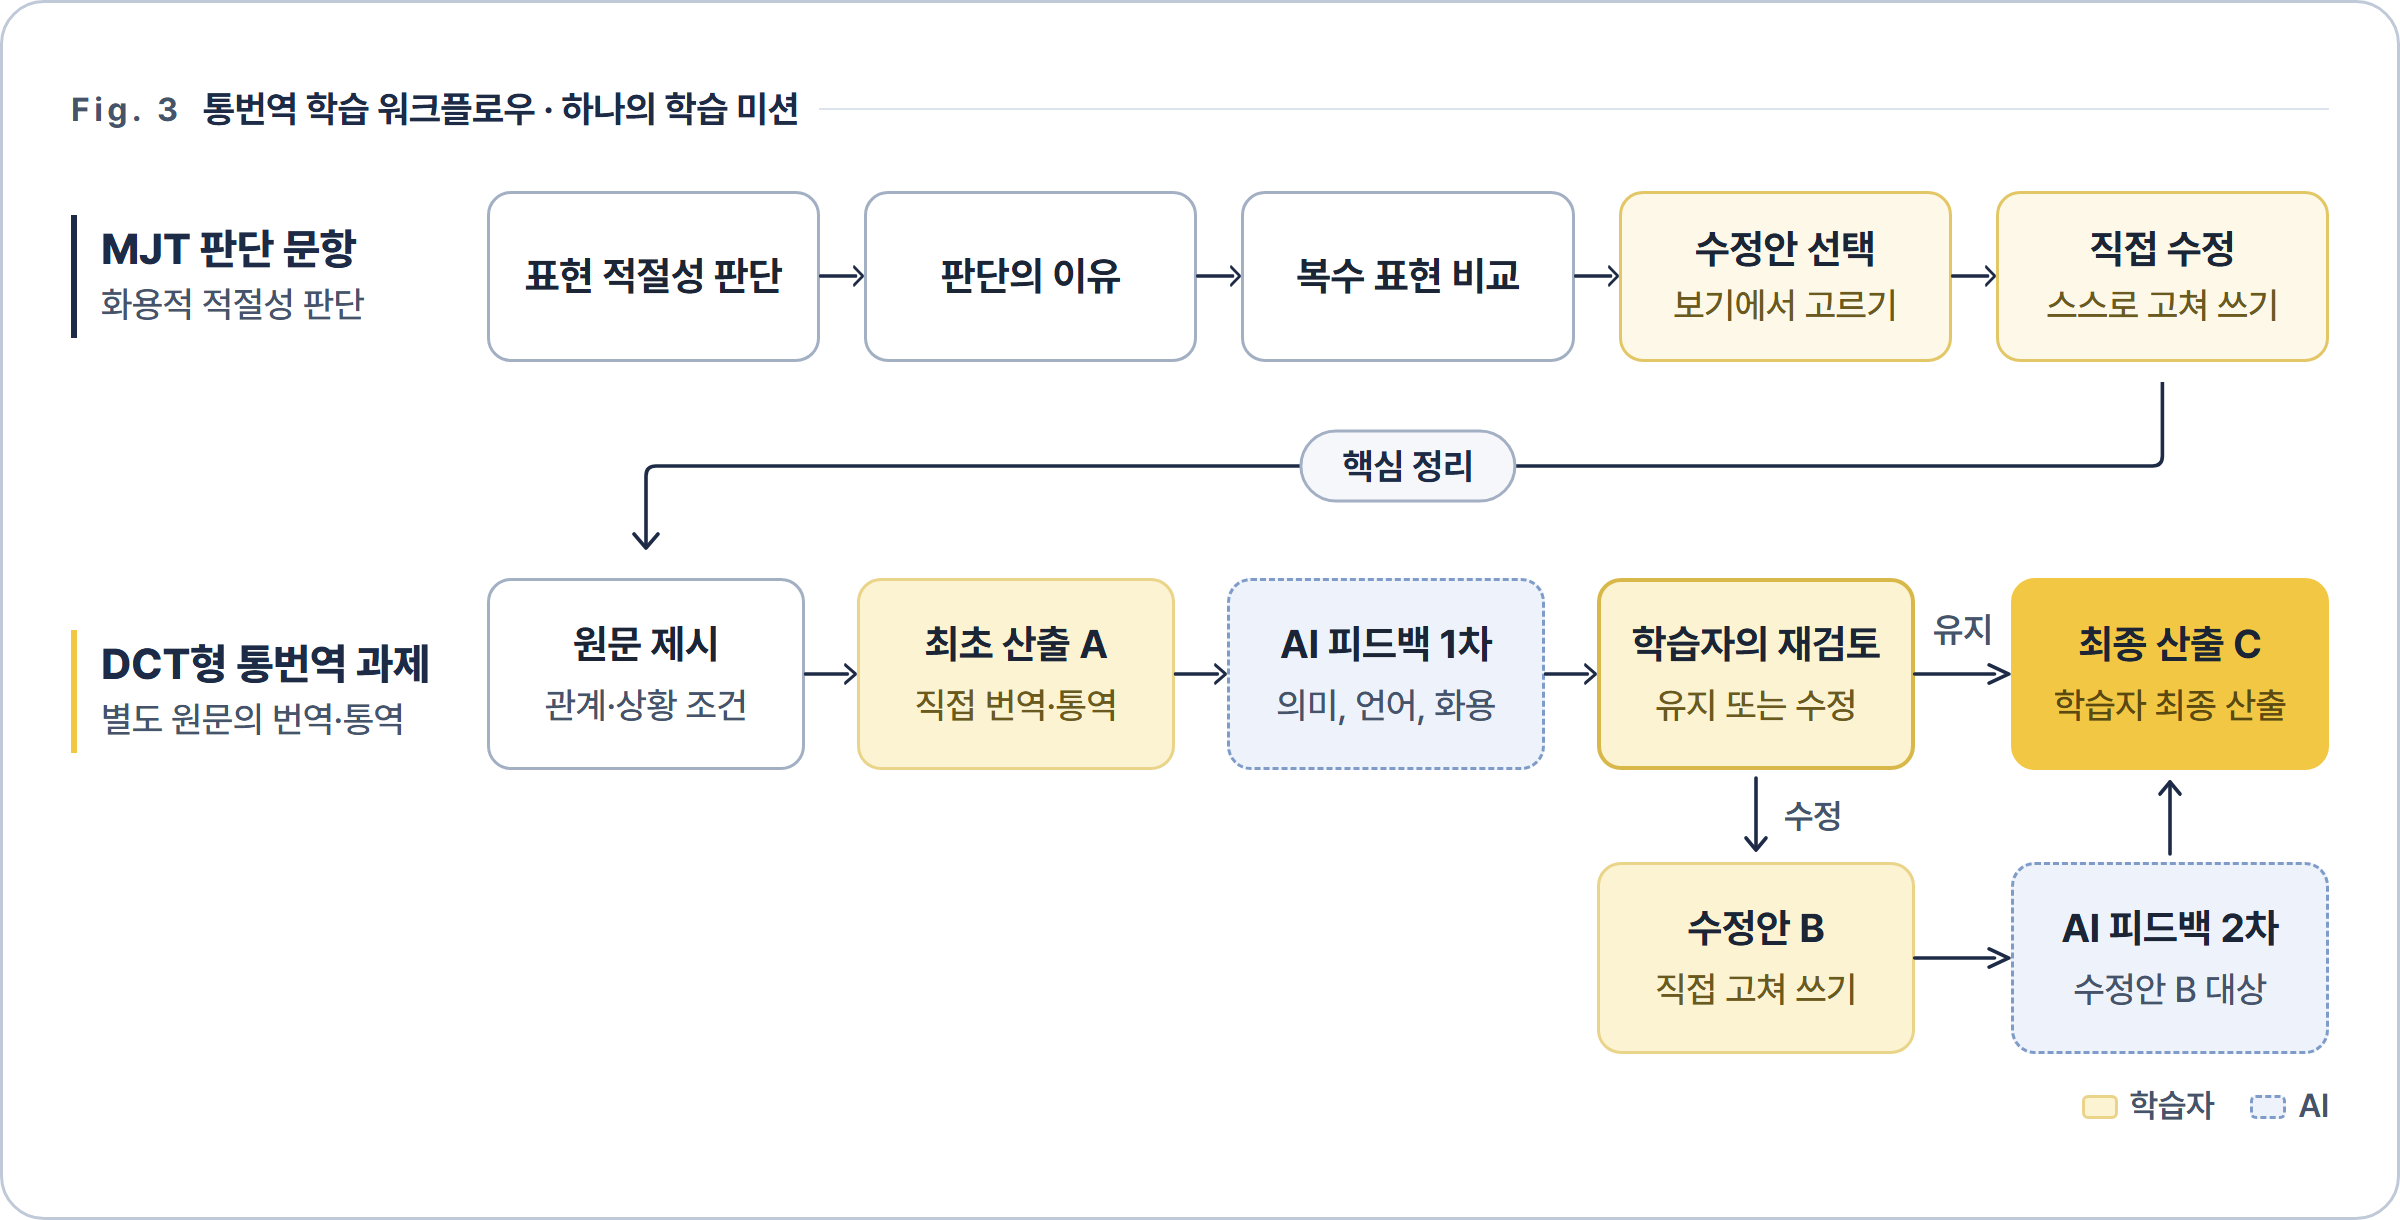
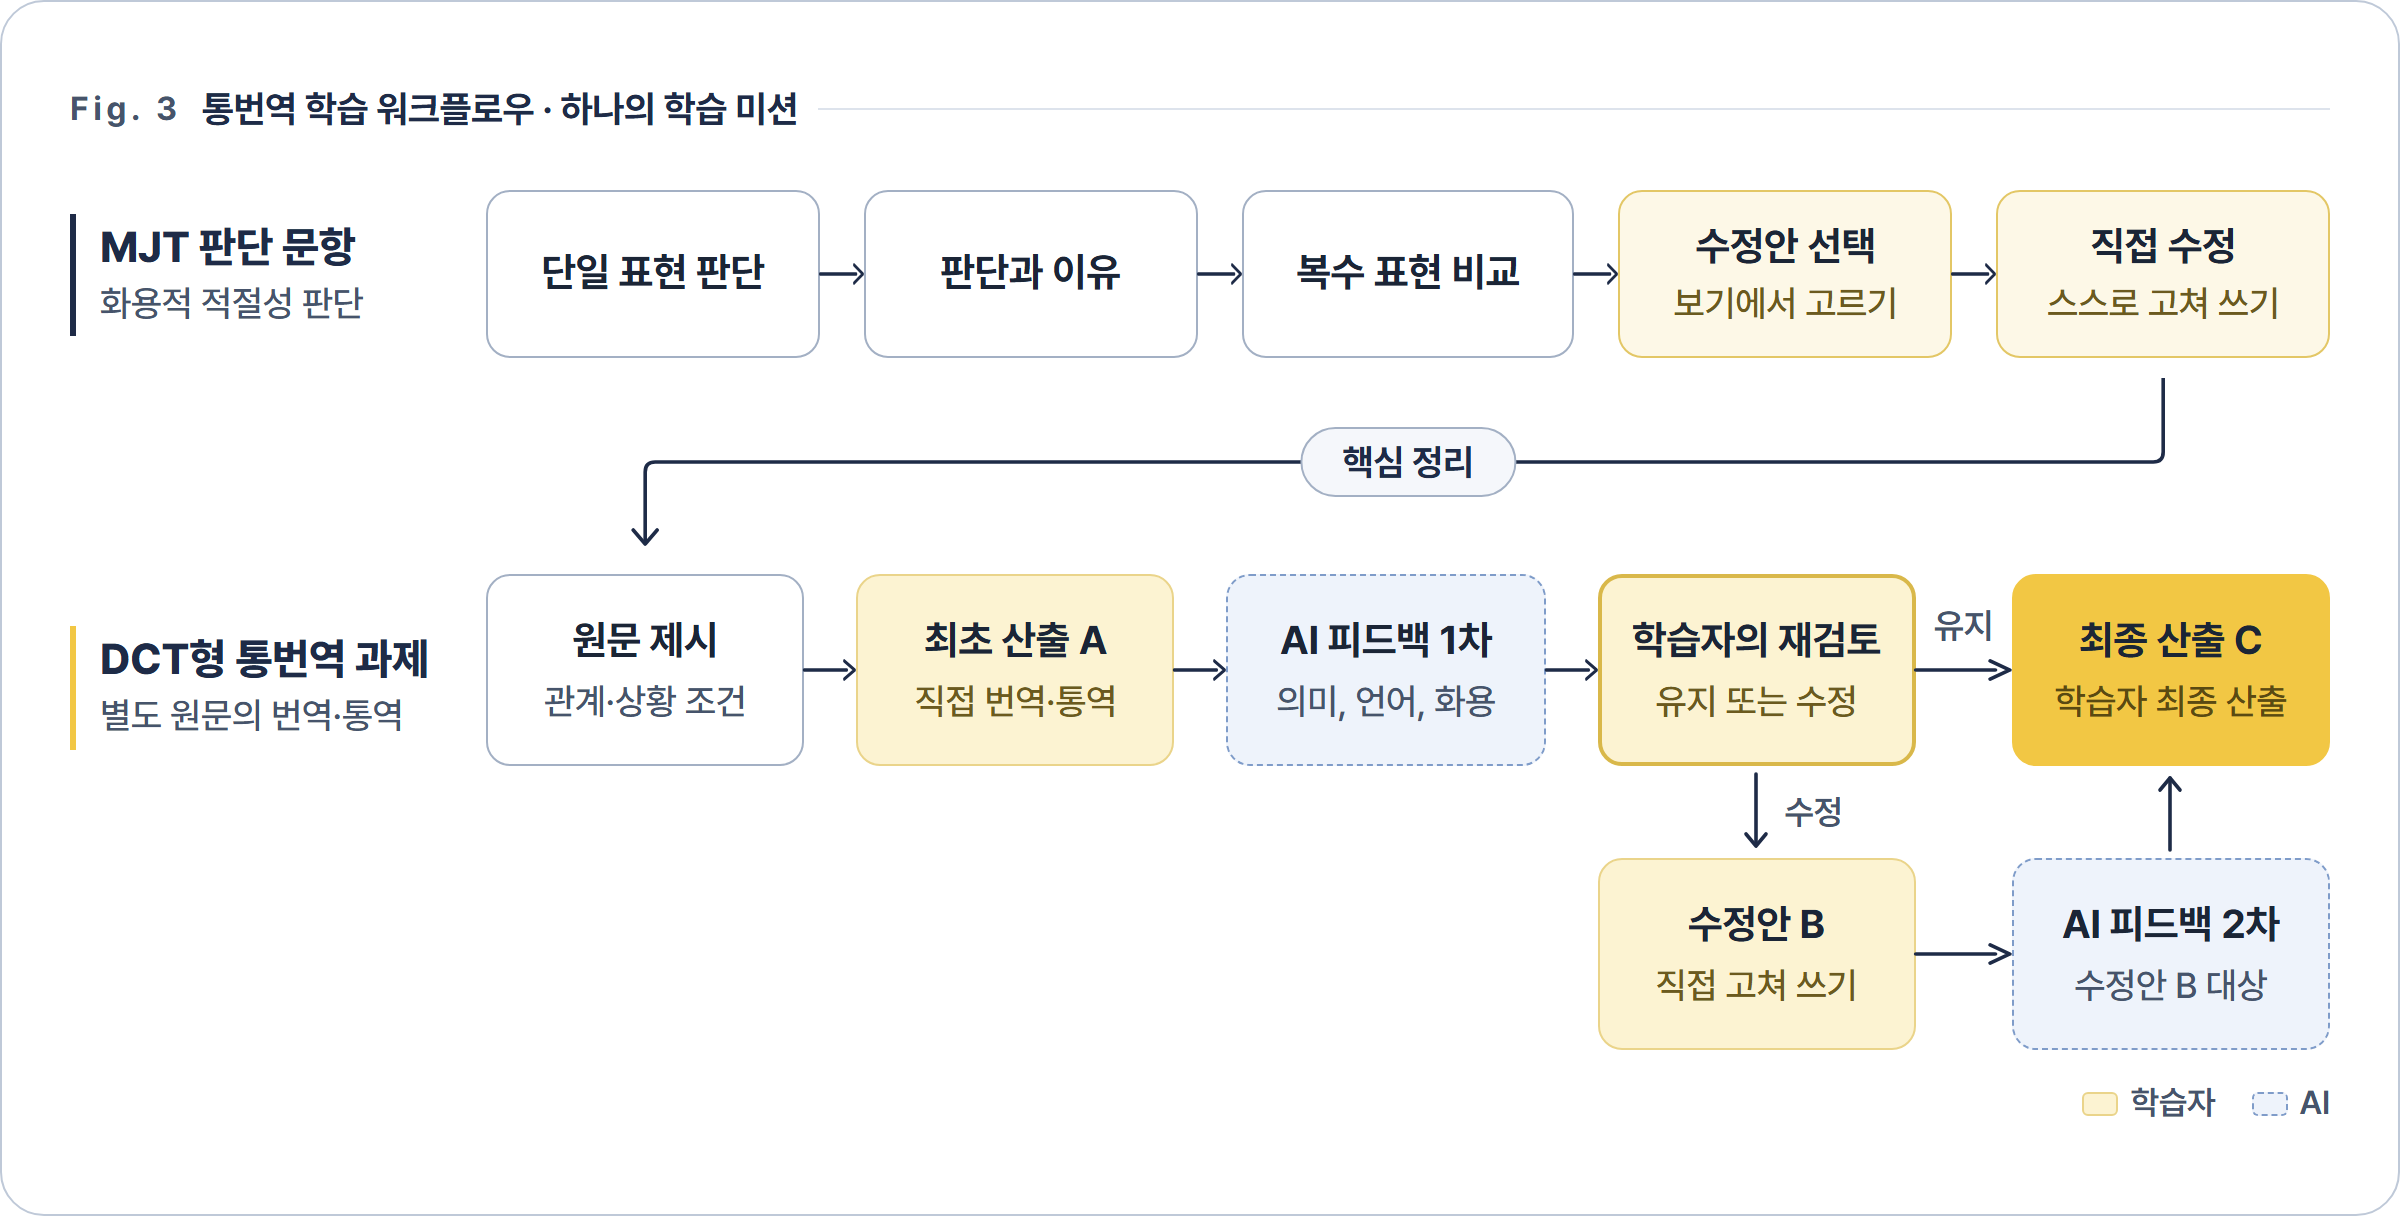
docs: README figure 3 and learner-structure canon use the 2026-10-01 MJT screen names

diff --git a/docs/product/PRAGMA_학습자구조_정본.md b/docs/product/PRAGMA_학습자구조_정본.md
@@ -9,7 +9,7 @@
 > **2026-08-25 구현 동기화: `21afafd`** — 네이티브 MJT5+DCT1 생성·검사·러너와 운영 배포,
 > 장면 2문장·선행 발화 null·MJT3 3지선다·MJT5 4후보·one-point recap을 대조했다.
 > **2026-09-10 범위 결정:** 라운지를 제외하고 `수업 | 기록` 두 탭으로 정리한다(DEC-20260910-03).
-> **2026-10-01 화면 표시명 동기화(PR #275):** 진행 표시 5단은 `미션 안내 → 적절성 판단 → 번역하기(통역하기) → AI 피드백 → 재검토`, MJT 단계 이름은 `표현 판단 / 판단과 이유 / 표현 비교 / 수정안 선택 / 직접 수정`으로 미션 안내·진행 표시·「다음:」 버튼·핵심 정리에서 한 벌로 쓴다. 결과 꼬리표는 `내 선택 / 기준 판단 / 허용 판단 / 기준 이유 / 기준 선택`. 구조·불변조건·완료 조건은 그대로다. 정의는 논문 저장소 `01_정본/00_용어대장.md` 2026-10-01 두 절.
+> **2026-10-01 화면 표시명 동기화(PR #275):** 진행 표시 5단은 `미션 안내 → 적절성 판단 → 번역하기(통역하기) → AI 피드백 → 재검토`, MJT 단계 이름은 `단일 표현 판단 / 판단과 이유 / 복수 표현 비교 / 수정안 선택 / 직접 수정`으로 미션 안내·진행 표시·「다음:」 버튼·핵심 정리에서 한 벌로 쓴다. 결과 꼬리표는 `내 선택 / 기준 판단 / 허용 판단 / 기준 이유 / 기준 선택`. 구조·불변조건·완료 조건은 그대로다. 정의는 논문 저장소 `01_정본/00_용어대장.md` 2026-10-01 두 절.
 > **이전 전범위 코드 대조 기준선: 2026-08-07 · main `59d0d2d`** (라우트·하단 탭·미션 스키마·콜드 오픈 대조)
 > 델타 재대조 `a0053fe`→`fcadb5b`: 조언 문구 원칙을 §7.3 불변조건으로 확정
 > (`08_작업관리\reviews\2026-08-06_정본3종_델타재대조_변경안.md`, 박사님 승인)
@@ -322,7 +322,7 @@ Can-do는 상황·참여자·목적·수행·모드·상황 적절성 기준을 
   최종안이 재평가·통과했다는 인상을 주지 않는다. 이의 제기·최초안 유지 선택도 보존한다.
 - 상단에는 `미션 안내 → 적절성 판단 → 번역하기(통역하기) → AI 피드백 → 재검토`의 조용한 5단 horizontal
   macro progress를 사용한다. 다섯 MJT를 상단에서 동등한 단계로 펼치지 않고 본문에서
-  단계 이름(표현 판단·판단과 이유·표현 비교·수정안 선택·직접 수정)과 `n/5`로 현재 위치를 표시한다. 스크롤 뒤에는 현재 단계 한 줄로 축약하고,
+  단계 이름(단일 표현 판단·판단과 이유·복수 표현 비교·수정안 선택·직접 수정)과 `n/5`로 현재 위치를 표시한다. 스크롤 뒤에는 현재 단계 한 줄로 축약하고,
   자동 스크롤 목적지는 사이트 헤더·진행바 아래의 동일 여백에 맞춰 본문을 가리지 않는다.
 - 첫 문항은 독립 Scale4다. 4점 원응답은 보존하되 적절/부적절 방향만 맞으면 인정하고, 매우/다소 차이는 참고 판정과 수업 토론에 사용한다.
 - 독립 Judge3는 두 번째 MJT에서 맥락 대비를 판단한다. FixChoice는 다시 별도 Judge3 판단을 잠근 뒤
@@ -471,7 +471,7 @@ Can-do는 상황·참여자·목적·수행·모드·상황 적절성 기준을 
 
 - 화면은 MJT1 → MJT2 → MJT5 → MJT3 → MJT4 → DCT형 통번역 과제 순서로 제시한다.
 - 내부 `mpj1~mpj5`·문항 ID와 저장 응답의 의미는 유지한다. 표시 위치와 저장 식별자를 구별한다.
-- 핵심 정리는 위치 번호 대신 진행 표시와 같은 단계 이름(‘표현 비교’, ‘수정안 선택’ 등)으로 해당 문항과 연결한다.
+- 핵심 정리는 위치 번호 대신 진행 표시와 같은 단계 이름(‘복수 표현 비교’, ‘수정안 선택’ 등)으로 해당 문항과 연결한다.
 - 안내는 원문의 내용·의도를 유지하면서 단어·문장 구조를 달리할 수 있고 적절한 표현이 복수일 수 있음을 밝힌다. 임의의 사실·이유·약속·합의 추가는 제한한다.
 
 기록 화면은 학습자가 실제로 수행한 미션과 수정 이력을 확인하는 곳이다.
